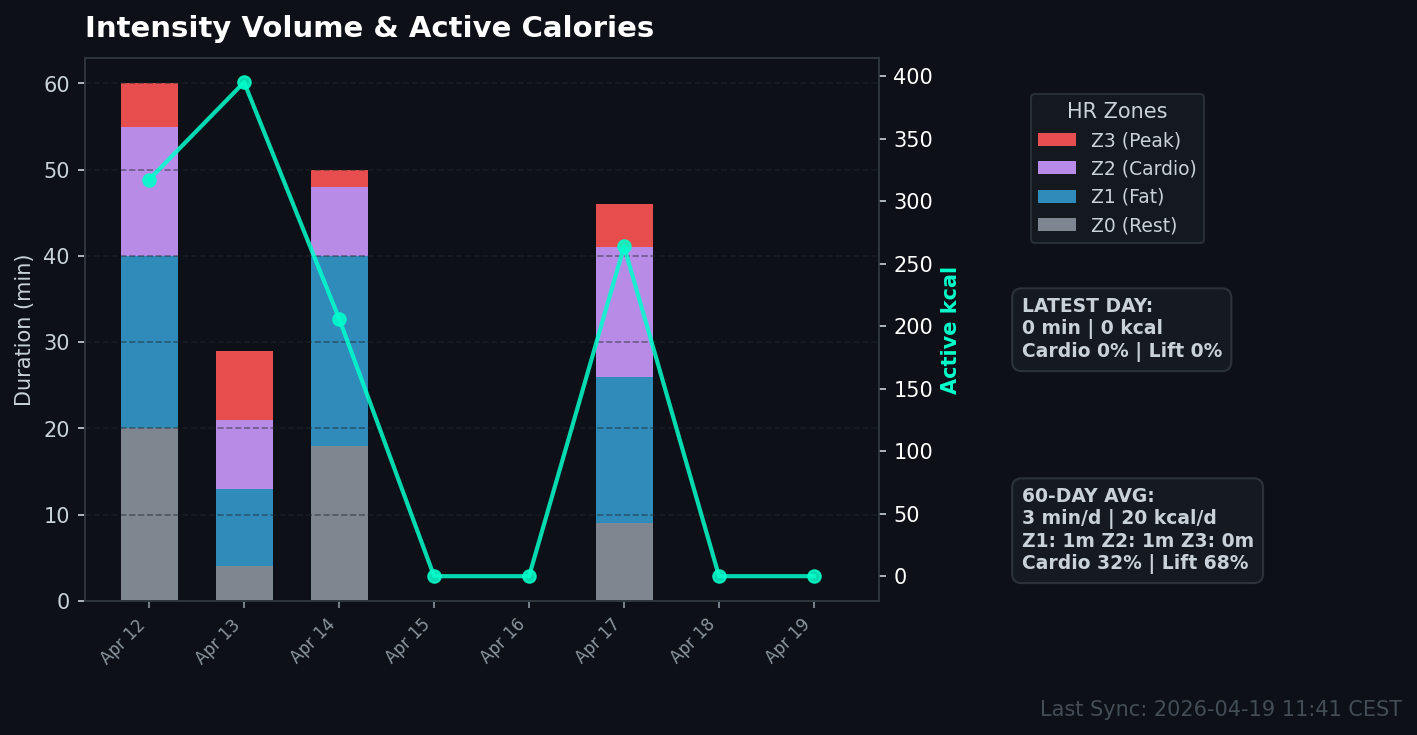
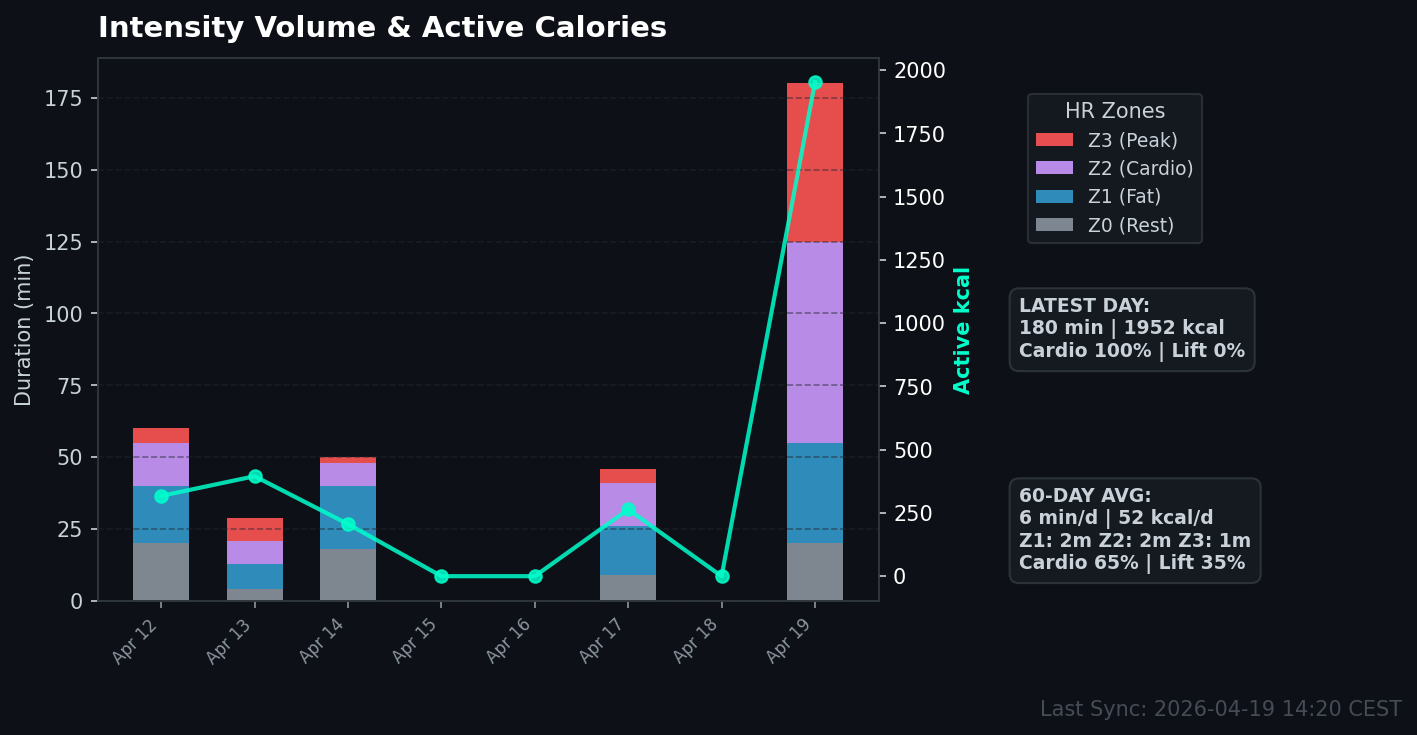
Update Public Dashboards Sun Apr 19 12:21:03 UTC 2026

diff --git a/sports_table.html b/sports_table.html
@@ -12,10 +12,22 @@
     <tbody>
     
         <tr style="border-bottom: 1px solid #222; color: white;">
+            <td style="padding: 8px 4px; text-align: left; color: var(--lcars-cyan); line-height: 1.2;">Apr 19<br><span style="color: var(--lcars-orange);">14:18</span></td>
+            <td style="padding: 8px 4px; text-align: left; vertical-align: top;">
+                <span style="font-weight: bold; color: var(--lcars-peach);">CYCLING</span><br>
+                <div style="font-size: 12px; color: #bbb; text-transform: none; line-height: 1.3; margin-top: 3px; font-weight: normal;">Excellent endurance shown in this long cycling session with strong time in higher HR zones, supported by fantastic sleep recovery. This sustained effort suggests good fitness and recovery capacity.</div>
+            </td>
+            <td style="padding: 8px 4px; text-align: right; vertical-align: top; font-weight: bold;">180m</td>
+            <td style="padding: 8px 4px; text-align: right; vertical-align: top; font-weight: bold;">2200 <br><span style="color:var(--lcars-cyan); font-size: 12px; font-weight: normal;">NET: 1951</span></td>
+            <td style="padding: 8px 4px; text-align: left; vertical-align: top; font-size: 12px; line-height: 1.2; text-transform: none; font-weight: normal; color: #ddd;">50.0 km<br>600.0 m elevation<br>One large activity recorded in 4 blocks by withings. Road cycling.</td>
+            <td style="padding: 8px 4px; text-align: left; vertical-align: top; line-height: 1.2; font-weight: bold;"><span style="color: var(--lcars-peach);">Avg: 155</span><br><span style="font-size: 11px; font-weight: normal; color: var(--lcars-cyan);">Z1: 35m | <span style="color: var(--lcars-purple);">Z2: 70m</span> | <span style="color: var(--lcars-red);">Z3: 55m</span></span></td>
+        </tr>
+        
+        <tr style="border-bottom: 1px solid #222; color: white;">
             <td style="padding: 8px 4px; text-align: left; color: var(--lcars-cyan); line-height: 1.2;">Apr 17<br><span style="color: var(--lcars-orange);">17:57</span></td>
             <td style="padding: 8px 4px; text-align: left; vertical-align: top;">
                 <span style="font-weight: bold; color: var(--lcars-peach);">GYM</span><br>
-                <div style="font-size: 12px; color: #bbb; text-transform: none; line-height: 1.3; margin-top: 3px; font-weight: normal;">The very low heart rate for this gym session suggests either light effort or tracking issues, especially concerning given two consecutive nights of very poor sleep. Focus on recovery and re-evaluating workout intensity or data accuracy.</div>
+                <div style="font-size: 12px; color: #bbb; text-transform: none; line-height: 1.3; margin-top: 3px; font-weight: normal;">This short upper-body gym session with moderate weights seems low intensity given the HR, possibly impacted by poor sleep quality prior to the workout. Ensure adequate recovery for strength gains.</div>
             </td>
             <td style="padding: 8px 4px; text-align: right; vertical-align: top; font-weight: bold;">18m</td>
             <td style="padding: 8px 4px; text-align: right; vertical-align: top; font-weight: bold;">80 <br><span style="color:var(--lcars-cyan); font-size: 12px; font-weight: normal;">NET: 55</span></td>
@@ -27,7 +39,7 @@
             <td style="padding: 8px 4px; text-align: left; color: var(--lcars-cyan); line-height: 1.2;">Apr 17<br><span style="color: var(--lcars-orange);">17:23</span></td>
             <td style="padding: 8px 4px; text-align: left; vertical-align: top;">
                 <span style="font-weight: bold; color: var(--lcars-peach);">RUNNING</span><br>
-                <div style="font-size: 12px; color: #bbb; text-transform: none; line-height: 1.3; margin-top: 3px; font-weight: normal;">Despite very low sleep scores and durations for the past two nights, you completed a solid 4x4 interval run with good heart rate engagement. Prioritize recovery and sleep to support continued performance.</div>
+                <div style="font-size: 12px; color: #bbb; text-transform: none; line-height: 1.3; margin-top: 3px; font-weight: normal;">Solid 4x4 interval run with good cardiovascular effort, but be cautious as poor sleep on the preceding night may have compromised your recovery and overall performance potential. Prioritize rest for future high-intensity efforts.</div>
             </td>
             <td style="padding: 8px 4px; text-align: right; vertical-align: top; font-weight: bold;">30m</td>
             <td style="padding: 8px 4px; text-align: right; vertical-align: top; font-weight: bold;">250 <br><span style="color:var(--lcars-cyan); font-size: 12px; font-weight: normal;">NET: 208</span></td>
@@ -39,7 +51,7 @@
             <td style="padding: 8px 4px; text-align: left; color: var(--lcars-cyan); line-height: 1.2;">Apr 14<br><span style="color: var(--lcars-orange);">09:14</span></td>
             <td style="padding: 8px 4px; text-align: left; vertical-align: top;">
                 <span style="font-weight: bold; color: var(--lcars-peach);">PILATES</span><br>
-                <div style="font-size: 12px; color: #bbb; text-transform: none; line-height: 1.3; margin-top: 3px; font-weight: normal;">This Pilates session shows good engagement with appropriate heart rate zones, providing active recovery following previous intense workouts. Good deep sleep the night before likely aided your performance.</div>
+                <div style="font-size: 12px; color: #bbb; text-transform: none; line-height: 1.3; margin-top: 3px; font-weight: normal;">A consistent pilates session with appropriate intensity for flexibility and core strength. Exceptional sleep the night before indicates a well-rested state, perfect for such mindful movement.</div>
             </td>
             <td style="padding: 8px 4px; text-align: right; vertical-align: top; font-weight: bold;">50m</td>
             <td style="padding: 8px 4px; text-align: right; vertical-align: top; font-weight: bold;">275 <br><span style="color:var(--lcars-cyan); font-size: 12px; font-weight: normal;">NET: 206</span></td>
@@ -51,7 +63,7 @@
             <td style="padding: 8px 4px; text-align: left; color: var(--lcars-cyan); line-height: 1.2;">Apr 13<br><span style="color: var(--lcars-orange);">19:55</span></td>
             <td style="padding: 8px 4px; text-align: left; vertical-align: top;">
                 <span style="font-weight: bold; color: var(--lcars-peach);">CYCLING</span><br>
-                <div style="font-size: 12px; color: #bbb; text-transform: none; line-height: 1.3; margin-top: 3px; font-weight: normal;">You executed a very high-intensity cycling interval workout despite having very poor sleep and low HRV the night prior. Monitor recovery closely and aim to improve sleep quality for optimal adaptation.</div>
+                <div style="font-size: 12px; color: #bbb; text-transform: none; line-height: 1.3; margin-top: 3px; font-weight: normal;">An effective high-intensity 4x4 cycling interval, pushing your heart rate well within training zones. Strong deep sleep the night before likely aided your energy and performance for this demanding workout.</div>
             </td>
             <td style="padding: 8px 4px; text-align: right; vertical-align: top; font-weight: bold;">29m</td>
             <td style="padding: 8px 4px; text-align: right; vertical-align: top; font-weight: bold;">435 <br><span style="color:var(--lcars-cyan); font-size: 12px; font-weight: normal;">NET: 394</span></td>
@@ -63,7 +75,7 @@
             <td style="padding: 8px 4px; text-align: left; color: var(--lcars-cyan); line-height: 1.2;">Apr 12<br><span style="color: var(--lcars-orange);">20:05</span></td>
             <td style="padding: 8px 4px; text-align: left; vertical-align: top;">
                 <span style="font-weight: bold; color: var(--lcars-peach);">GYM</span><br>
-                <div style="font-size: 12px; color: #bbb; text-transform: none; line-height: 1.3; margin-top: 3px; font-weight: normal;">A productive full-body gym session with good heart rate engagement, supported by decent sleep duration and excellent deep sleep the night before. This indicates solid performance and readiness.</div>
+                <div style="font-size: 12px; color: #bbb; text-transform: none; line-height: 1.3; margin-top: 3px; font-weight: normal;">A well-rounded gym session covering multiple muscle groups with good duration, but very low sleep quality and duration from the prior night indicate significant under-recovery. Be mindful of potential overtraining or injury risk under such conditions.</div>
             </td>
             <td style="padding: 8px 4px; text-align: right; vertical-align: top; font-weight: bold;">60m</td>
             <td style="padding: 8px 4px; text-align: right; vertical-align: top; font-weight: bold;">400 <br><span style="color:var(--lcars-cyan); font-size: 12px; font-weight: normal;">NET: 317</span></td>
